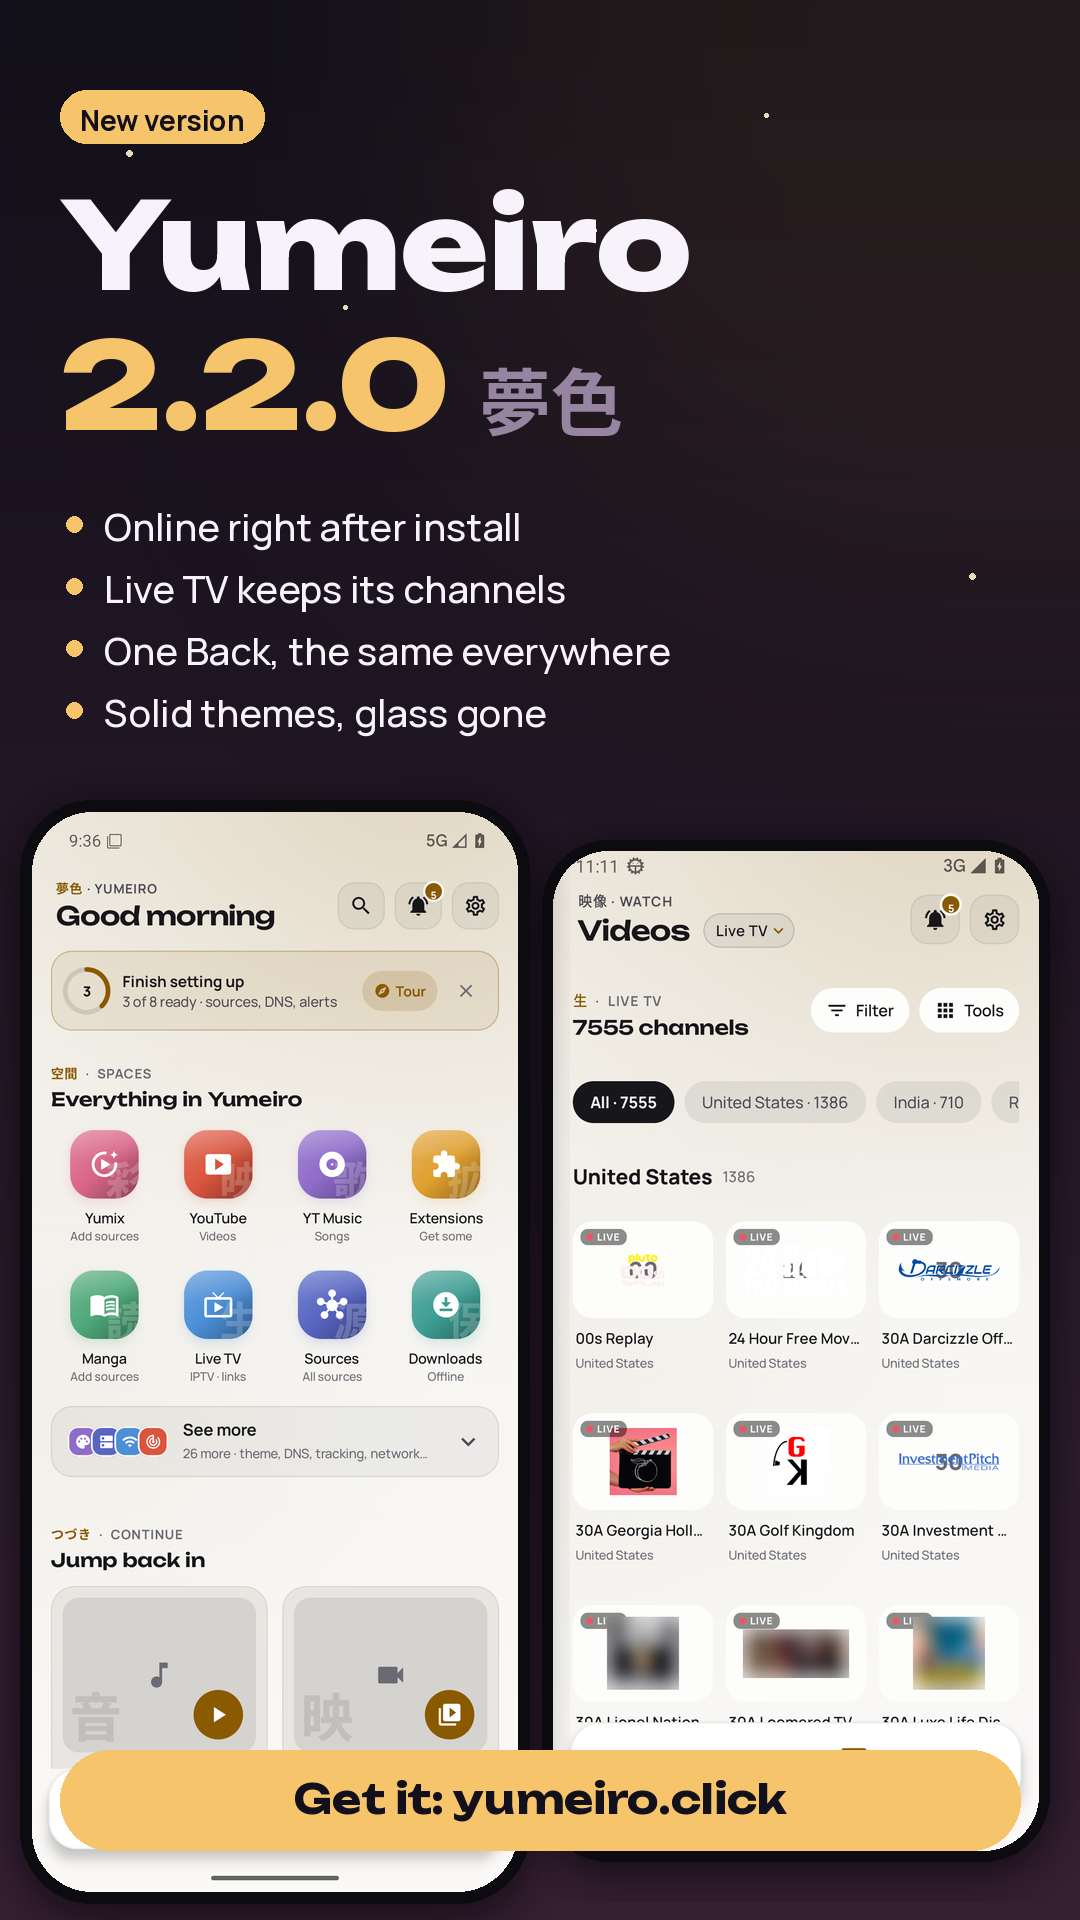
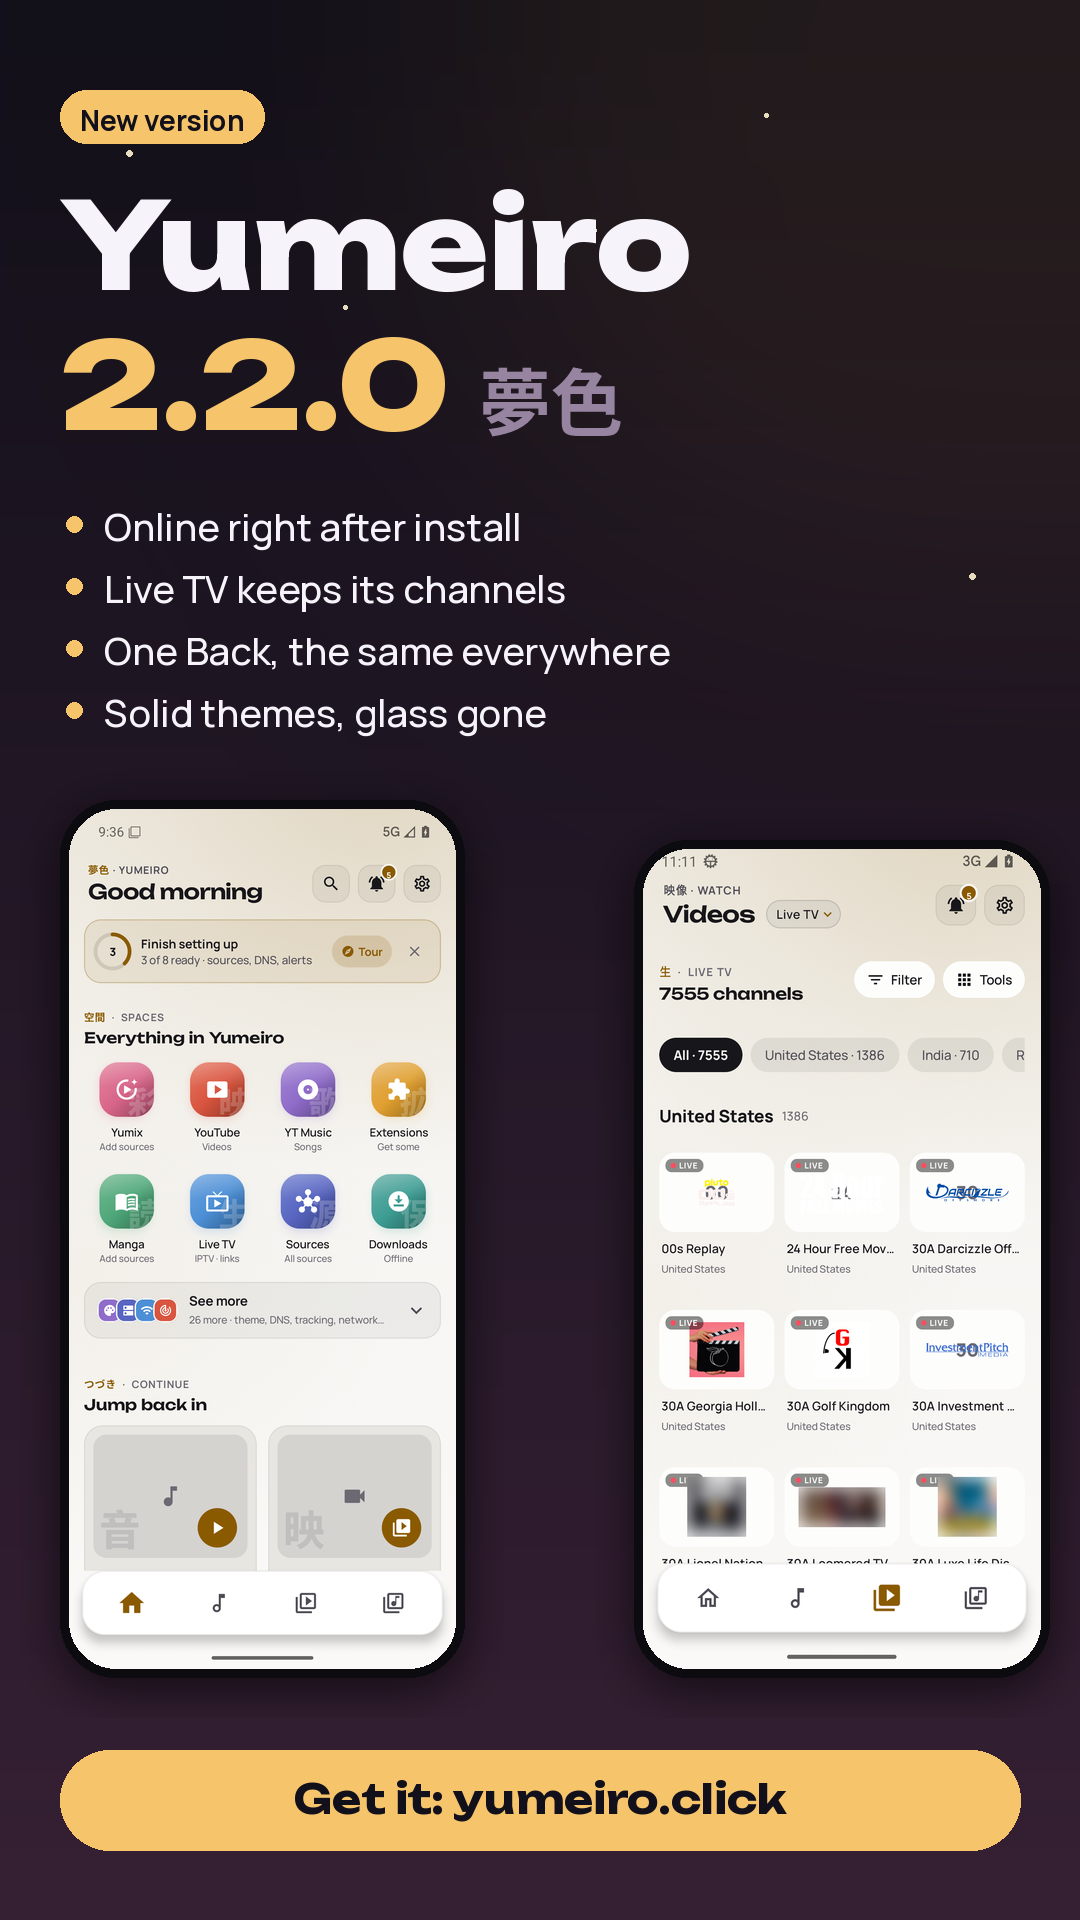
docs(release): 2.2.0 story image, phones end above the call-to-action bar
Cause: in story-1080x1920 the "Get it: yumeiro.click" bar covered the bottom of both phone screens.
Fix: smaller phones (820 / 860 px) so both end above the bar.
Tests: image re-rendered and inspected.
Evidence: docs/assets/release-2.2/story-1080x1920.png.
Timestamp: Mon Nov 23 18:31:10 +06 2026
Ledger: REL-2.2-PREP

Changed region(s): [[0.0, 0.4062, 0.9778, 1.0], [0.825, 0.5625, 0.8556, 0.5938]]

diff --git a/scripts/release_kit_220.py b/scripts/release_kit_220.py
@@ -83,8 +83,8 @@ def story(name):
     y = 500
     for l in LINES:
         d.ellipse([66, y + 16, 82, y + 32], fill=GOLD); d.text((104, y), l, font=F(MAN, 38), fill=INK); y += 62
-    p1 = phone("live_tv", 1000); p2 = phone("home_day", 1080)
-    im.paste(p1, (w - p1.width + 10, 800), p1); im.paste(p2, (-20, 760), p2)
+    p1 = phone("live_tv", 820); p2 = phone("home_day", 860)  # both end above the call-to-action bar
+    im.paste(p1, (w - p1.width + 10, 800), p1); im.paste(p2, (20, 760), p2)
     d.rounded_rectangle([60, h - 170, w - 60, h - 70], 50, fill=GOLD)
     t = "Get it: yumeiro.click"; ft = F(UNB, 40)
     d.text(((w - d.textlength(t, font=ft)) / 2, h - 146), t, font=ft, fill=BG1)
